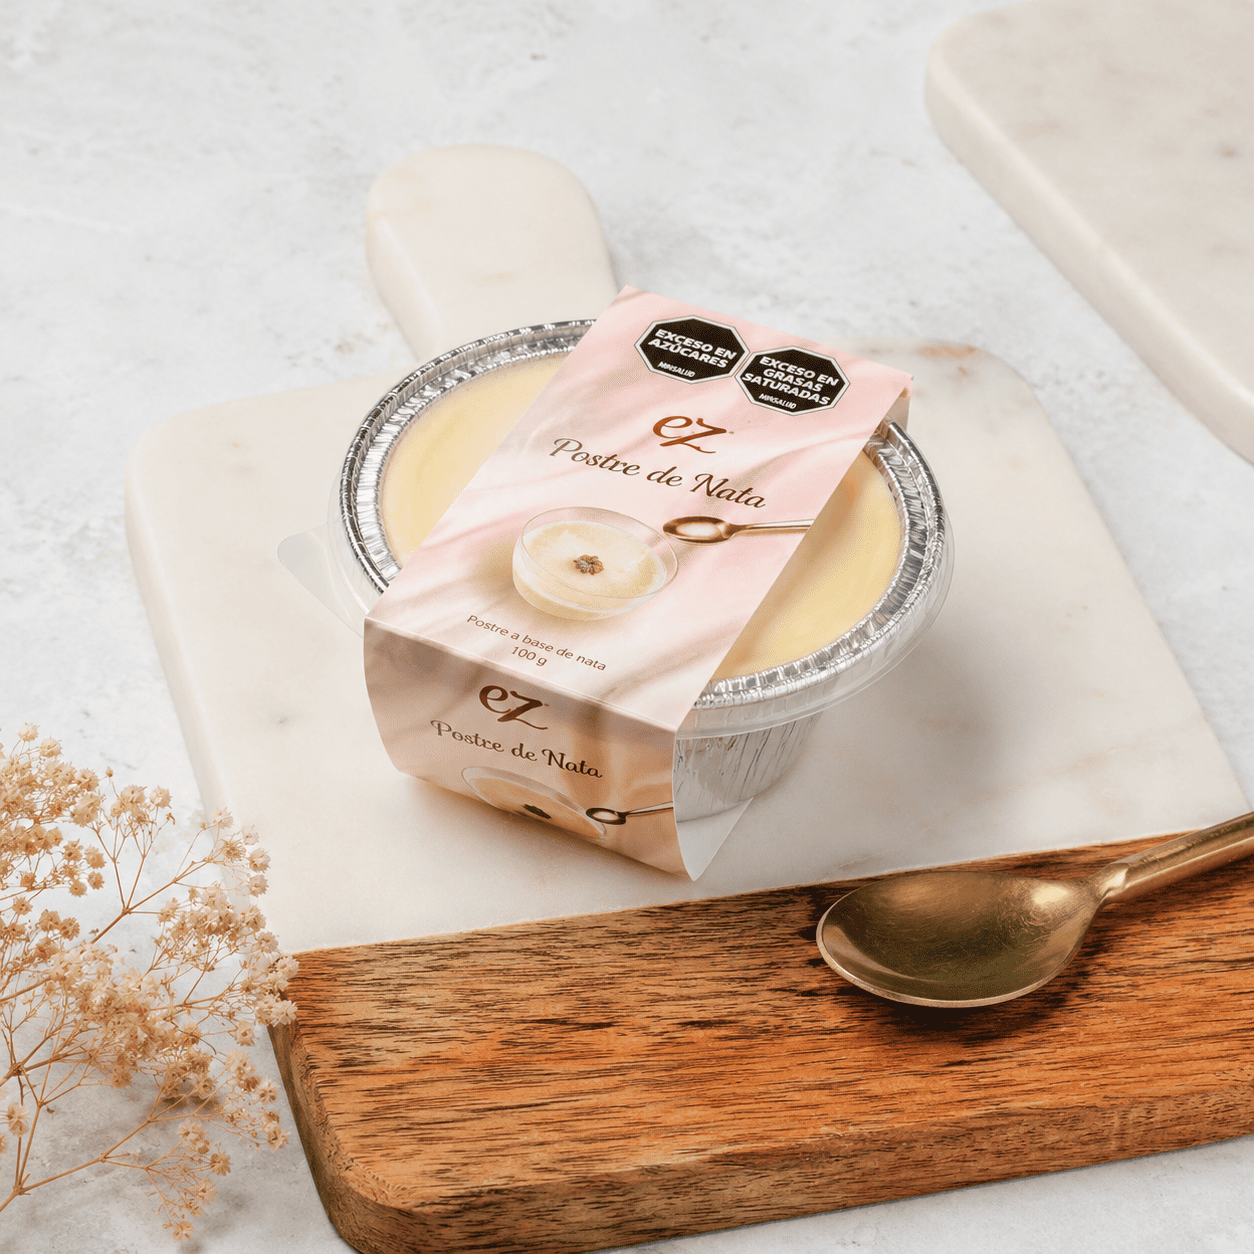
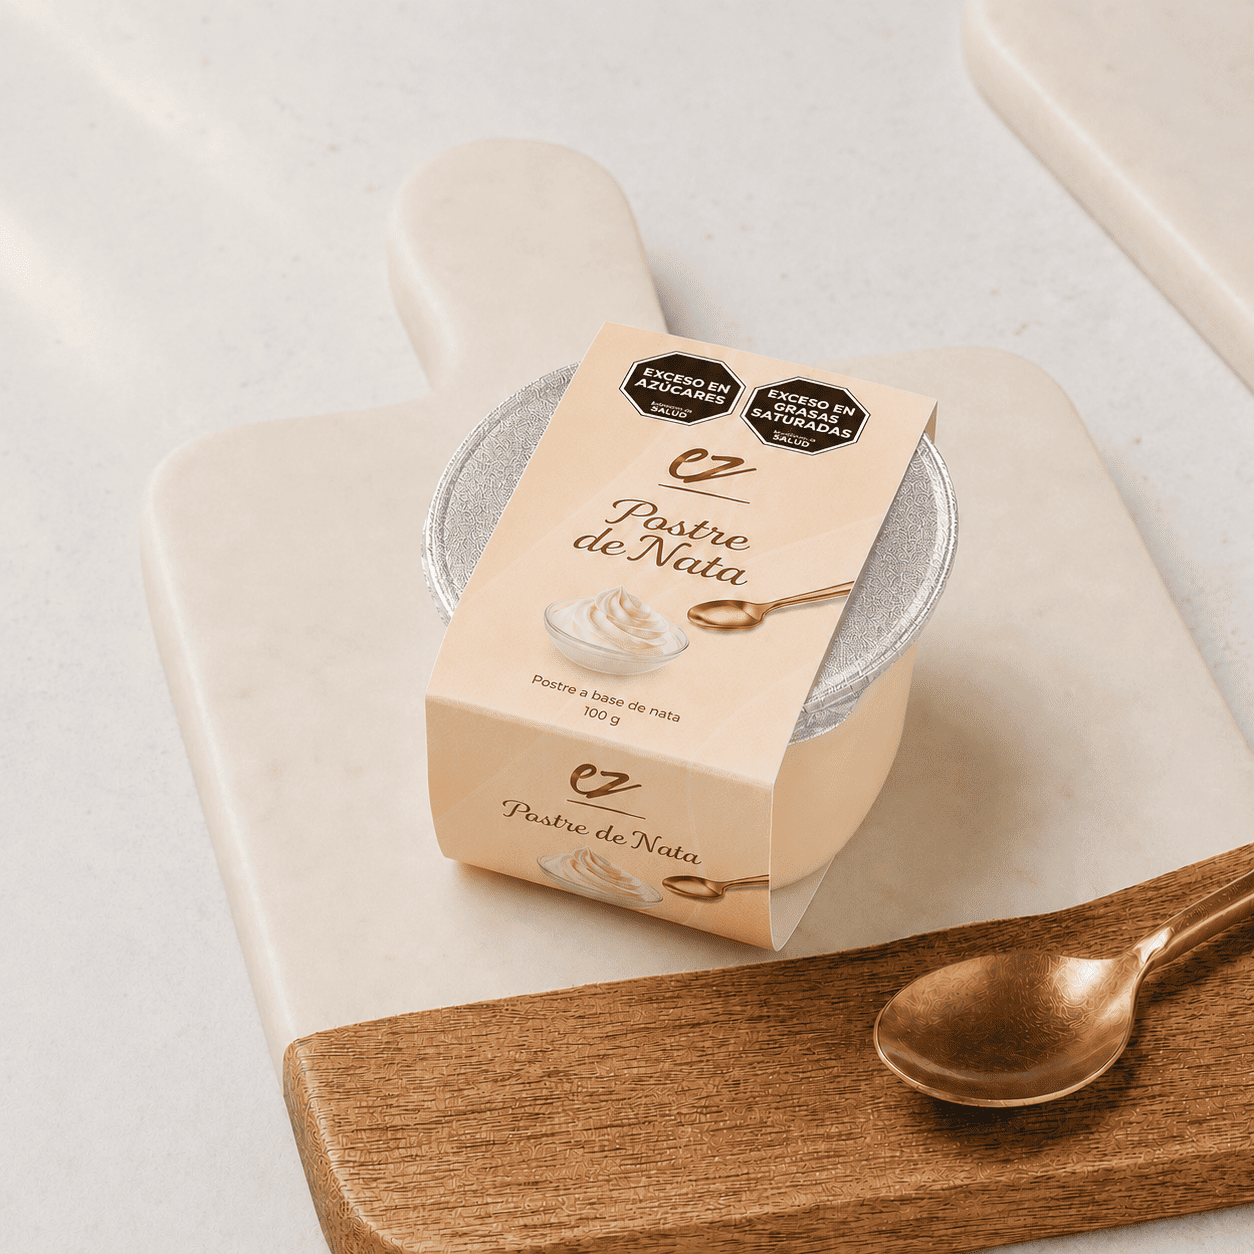
feat: update Flan de Chocolate and Postre de Natas product images

diff --git a/lib/constants.ts b/lib/constants.ts
@@ -103,7 +103,7 @@ export const PRODUCTS: Product[] = [
     category: "premium",
     description: "Textura de flan, alma de cacao. Un placer sin prisas.",
     longDescription: "Nuestro Flan de Chocolate fusiona la suavidad del flan tradicional con la intensidad del cacao premium. Una experiencia de sabor que satisface hasta los paladares más exigentes. Elaborado con chocolate seleccionado y técnica artesanal.",
-    image: "/images/products/flan-de-chocolate.jpg",
+    image: "/images/products/flan-de-chocolate.png",
     packagingImage: "/images/packaging/flan-de-chocolate.jpg",
     featured: false,
     ingredients: ["Chocolate", "Leche", "Huevos", "Azúcar", "Cacao"],